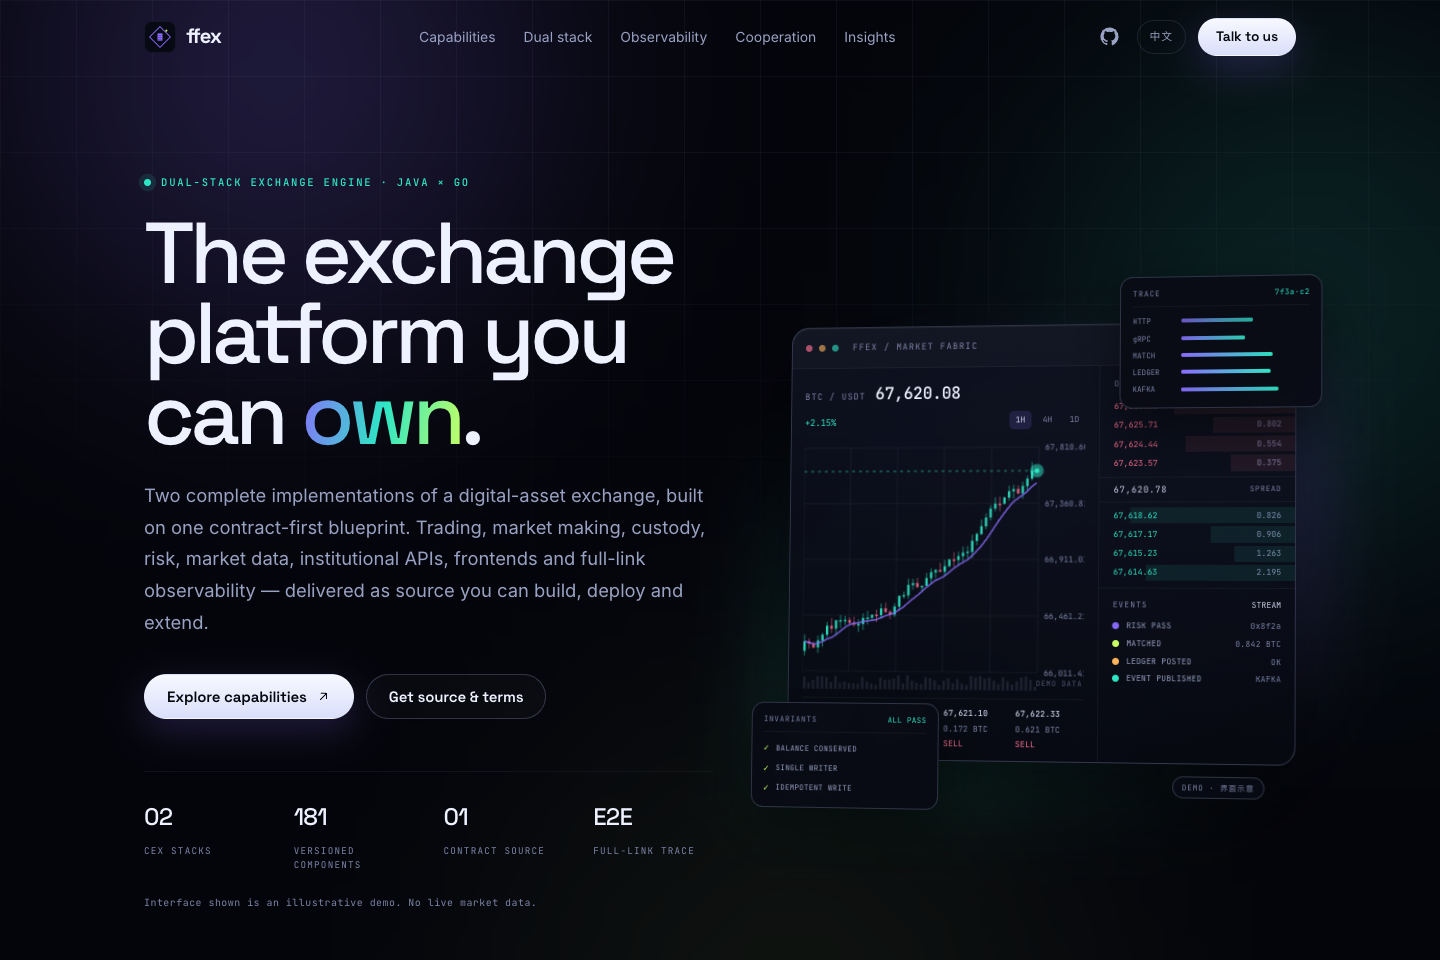
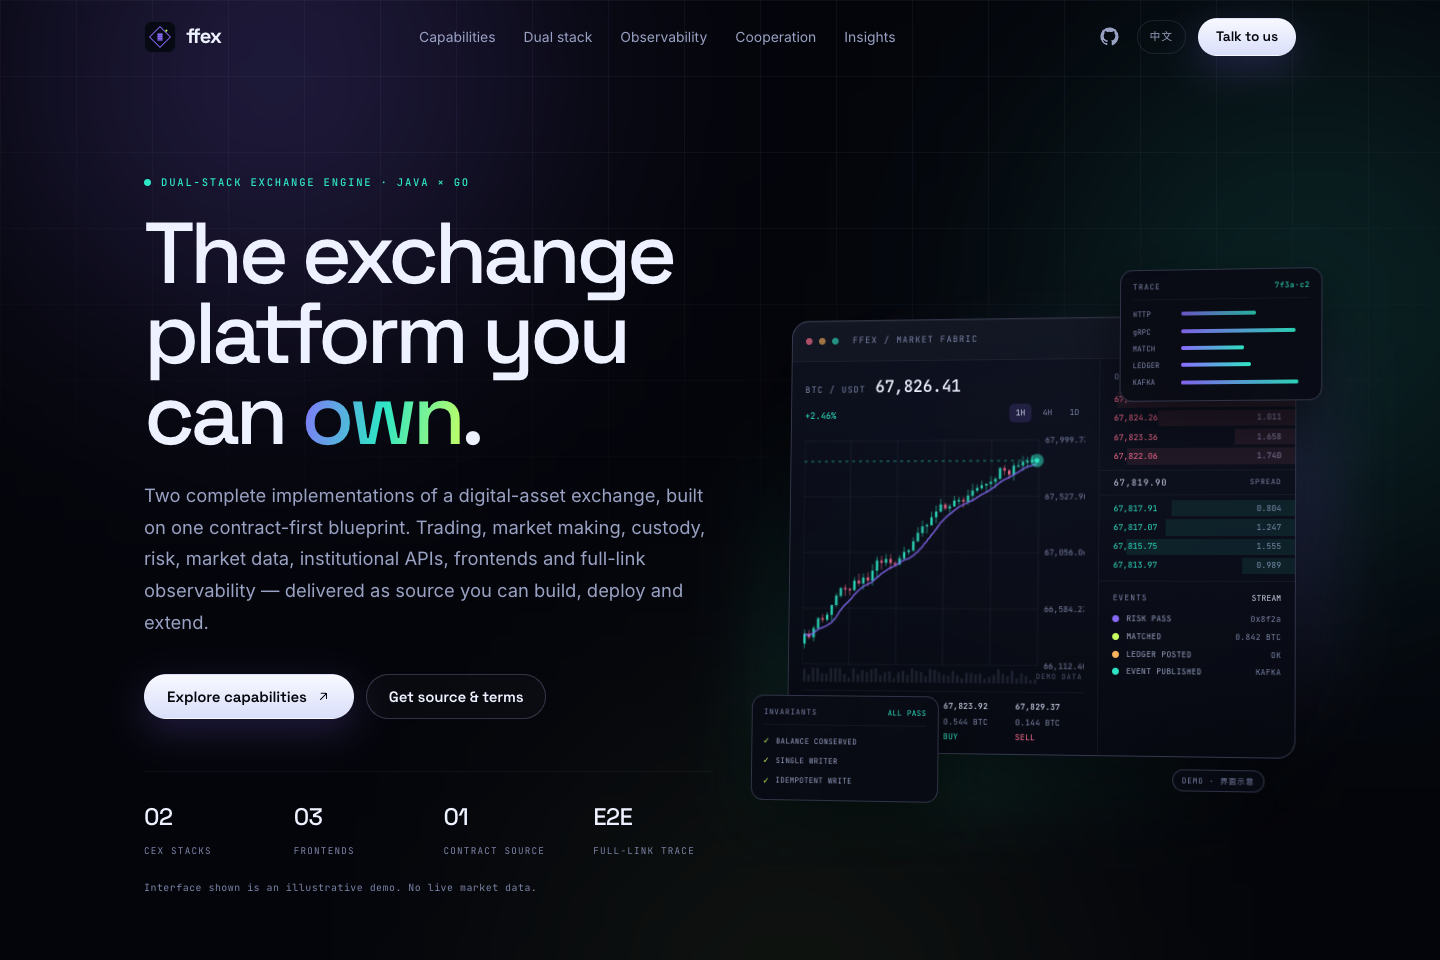
fix(site): keep the hero stats free of internal counts
Restore the `03 frontends` stat instead of a component count, and regenerate
the preview screenshots.

diff --git a/DESIGN.md b/DESIGN.md
@@ -308,7 +308,8 @@ production claims:
   trace coverage renumbered to `05`.
 - Surfaces: four surfaces kept, lede now states the shared design system; the
   common platform list gained `FRONTEND` (design system, typed clients, native UI).
-- Home: stat `03 Frontends` → `181 Versioned components`; marquee expanded to 16
+- Home: hero stats unchanged (`02 stacks`, `01 contract source`, `03 frontends`,
+  `E2E trace`); marquee expanded to 16
   items; capability grid 8 → 10 cards (six normal, four wide — four complete rows);
   common list gained the frontend platform.
 - Dual stack: building blocks 8 → 9 (added `QUALITY / TEST`), fifth principle on

diff --git a/content/en/_index.md b/content/en/_index.md
@@ -14,7 +14,7 @@ blocks:
       - { label: "Get source & terms", href: "cooperation/", style: "ghost" }
     stats:
       - { value: "02", label: "CEX stacks" }
-      - { value: "181", label: "Versioned components" }
+      - { value: "03", label: "Frontends" }
       - { value: "01", label: "Contract source" }
       - { value: "E2E", label: "Full-link trace" }
     footnote: "Interface shown is an illustrative demo. No live market data."

diff --git a/content/zh/_index.md b/content/zh/_index.md
@@ -14,7 +14,7 @@ blocks:
       - { label: "获取源码与方案", href: "cooperation/", style: "ghost" }
     stats:
       - { value: "02", label: "套 CEX 实现" }
-      - { value: "181", label: "个独立组件" }
+      - { value: "03", label: "套前端" }
       - { value: "01", label: "份契约源" }
       - { value: "E2E", label: "全链路追踪" }
     footnote: "界面为演示示意，非实时行情数据。"
